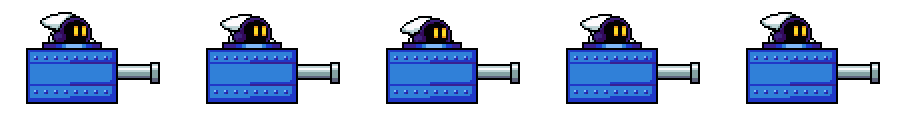
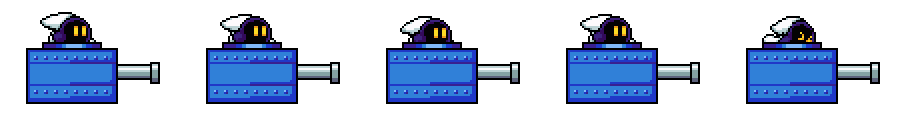
Add hurt pose for custom sprites, A lot of drawing update
Enemy now drawn in proper formation.
Enemy Name moved to top left

Changed region(s): [[0.84, 0.1, 0.9333, 0.35]]

diff --git a/src/graphic/DrawingUtility.java b/src/graphic/DrawingUtility.java
@@ -1,6 +1,7 @@
 package graphic;
 
 import java.io.InputStream;
+import java.util.ArrayList;
 import java.util.List;
 
 import com.sun.javafx.tk.FontLoader;
@@ -62,7 +63,7 @@ public class DrawingUtility {
 		
 	}
 	
-	public static void drawStatusBar(GraphicsContext gc, int level, int HP, int maxHP) {
+	public static void drawStatusBar(GraphicsContext gc, int level, int HP, int maxHP,ArrayList<Enemy> enemyList) {
 		//draw Status bar
 		gc.setFill(Color.BLACK);
 		gc.fillRect(0, 0, GameScreen.SCREEN_WIDTH, STATUS_BAR_HEIGHT);
@@ -78,6 +79,10 @@ public class DrawingUtility {
 		gc.fillText("HP : "+HP, 340, 5);
 		
 		drawPlayerHPBar(gc, 380, 5, HP, maxHP);
+		
+		for(int i=0;i<enemyList.size();i++){
+			drawEnemyName(gc,enemyList.get(i).getName(),i);
+		}
 	}
 	
 	public static void drawAttackGauge(GraphicsContext gc, int[] attackpower, int index, int currentAtkPower, boolean showAttackDescription) {
@@ -156,11 +161,11 @@ public class DrawingUtility {
 		gc.fillRect(x, y, HP_BAR_WIDTH, HP_BAR_HEIGHT);
 		
 		//Enemy's name
-		gc.setFont(Font.font("Arial", 10));
-		gc.setFill(Color.WHITE);
-		gc.setTextAlign(TextAlignment.LEFT);
-		gc.setTextBaseline(VPos.BASELINE);
-		gc.fillText(name, x, y-5);
+//		gc.setFont(Font.font("Arial", 10));
+//		gc.setFill(Color.WHITE);
+//		gc.setTextAlign(TextAlignment.LEFT);
+//		gc.setTextBaseline(VPos.BASELINE);
+//		gc.fillText(name, x, y-5);
 		
 		//HP bar gauge, varying color depend on HP
 		double t = (double)HP/(double)maxHP;
@@ -191,6 +196,14 @@ public class DrawingUtility {
 		int x = (enemy.getX() + enemy.getAnimation().getFrameWidth()/2 - HP_BAR_WIDTH/2);
 		int y = enemy.getY() - HP_BAR_HEIGHT;
 		drawEnemyHPBar(gc, x, y, enemy.getHp(), enemy.getMaxHP(), enemy.getName());
+	}
+	
+	public static void drawEnemyName(GraphicsContext gc,String name,int number){
+		gc.setFont(Font.font("Arial", 15));
+		gc.setFill(Color.WHITE);
+		gc.setTextAlign(TextAlignment.LEFT);
+		gc.setTextBaseline(VPos.TOP);
+		gc.fillText(name, 5, STATUS_BAR_HEIGHT+5+15*number);
 	}
 	
 	public static void drawHurtEnemy(GraphicsContext gc, Enemy enemy) {

diff --git a/src/logic/Position.java b/src/logic/Position.java
@@ -15,7 +15,7 @@ public class Position {
 	
 	public static void set(ArrayList<Enemy> enemyList) {
 		amount = enemyList.size();
-		LineForm(enemyList);
+		PlaceEnemy(enemyList);
 	}
 	
 	public static void set(ArrayList<Enemy> enemyList, String format) {
@@ -26,6 +26,30 @@ public class Position {
 			LineForm(enemyList);
 		}
 	
+	}
+	
+	private static void PlaceEnemy(ArrayList<Enemy> enemyList){
+		final int ENEMY_ORIGIN_X = DrawingUtility.PLAY_SCREEN_WIDTH/4+30;
+		final int ENEMY_ORIGIN_Y = PLAYER_POSITION_Y-30;
+		
+		if(enemyList.size()==1){
+			Enemy enemy = enemyList.get(0);
+			enemy.setX(ENEMY_ORIGIN_X);
+			enemy.setY(ENEMY_ORIGIN_Y);
+		}else if(enemyList.size()==2){
+			for(int i=0;i<2;i++){
+				Enemy enemy = enemyList.get(i);
+				enemy.setX(ENEMY_ORIGIN_X);
+				enemy.setY((int) (ENEMY_ORIGIN_Y+60*(Math.pow(-1, i))));
+			}
+		}else{
+			int totalEnemy = enemyList.size();
+			for(int i=0;i<totalEnemy;i++){
+				Enemy enemy = enemyList.get(i);
+				enemy.setX((int) (ENEMY_ORIGIN_X+80*Math.cos(Math.toRadians(i*360/totalEnemy))));
+				enemy.setY((int) (ENEMY_ORIGIN_Y+80*Math.sin(Math.toRadians(i*360/totalEnemy))));
+			}
+		}
 	}
 	
 	private static void LineForm(ArrayList<Enemy> enemyList) {	

diff --git a/src/logic/StatusBar.java b/src/logic/StatusBar.java
@@ -1,5 +1,6 @@
 package logic;
 
+import data.GameData;
 import graphic.DrawingUtility;
 import graphic.IRenderable;
 import graphic.RenderableHolder;
@@ -18,7 +19,7 @@ public class StatusBar implements IRenderable {
 
 	@Override
 	public void draw(GraphicsContext gc) {
-		DrawingUtility.drawStatusBar(gc, GameLogic.instance.getLevel(), GameLogic.instance.getPlayer().getHp(), GameLogic.instance.getPlayer().getMaxHP());
+		DrawingUtility.drawStatusBar(gc, GameLogic.instance.getLevel(), GameLogic.instance.getPlayer().getHp(), GameLogic.instance.getPlayer().getMaxHP(),GameLogic.instance.getRound().getEnemyList());
 		
 	}
 

diff --git a/src/logic/Enemy.java b/src/logic/Enemy.java
@@ -39,6 +39,12 @@ public class Enemy extends Entity{
 		
 	}
 	
+	@Override
+	public void setY(int y) {
+		this.y = y;
+		this.z = y;
+	}
+	
 		
 
 }
